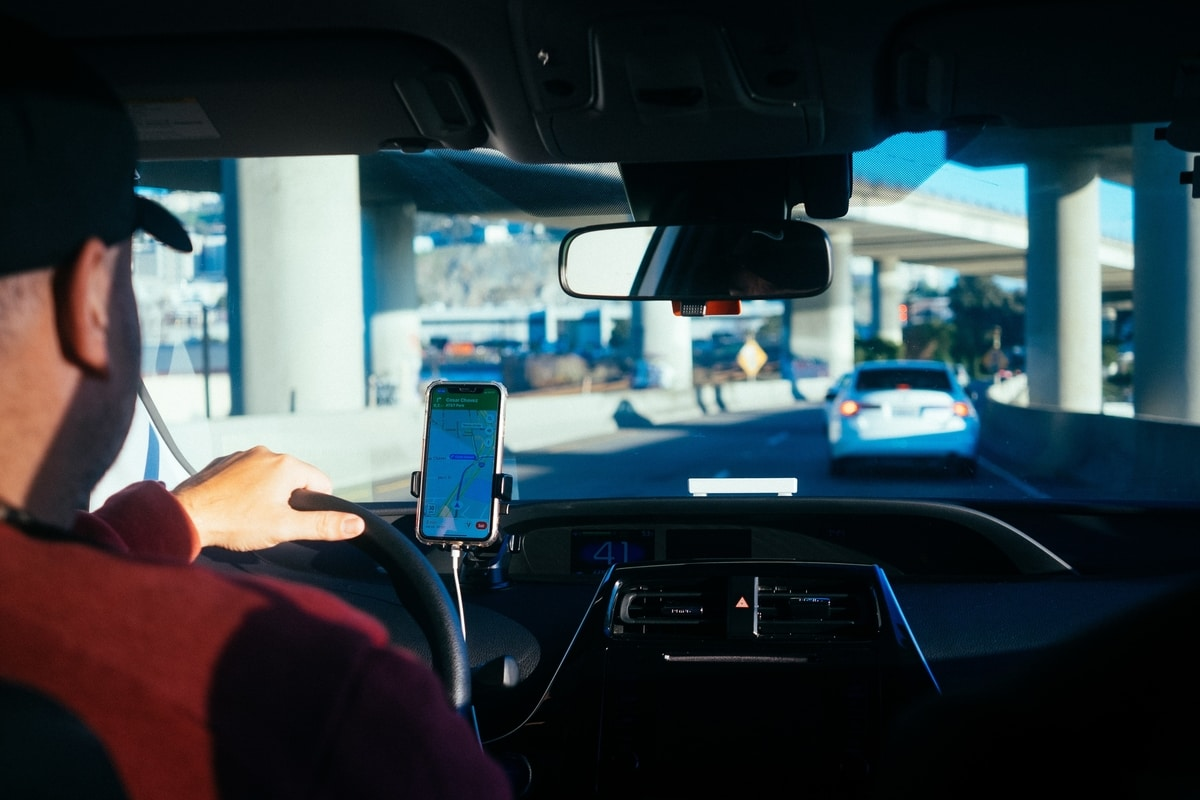
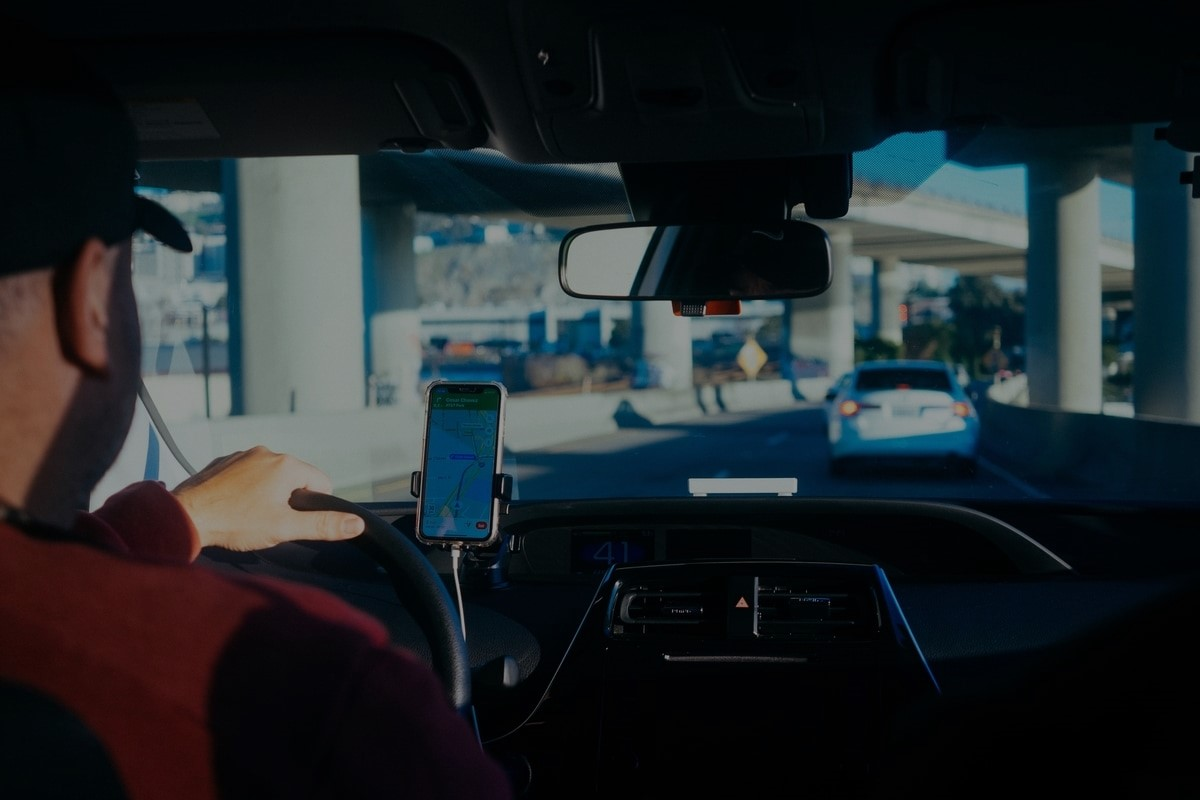
overlay, cosmetic changes

diff --git a/src/components/Offer/OfferStyles.js b/src/components/Offer/OfferStyles.js
@@ -9,28 +9,17 @@ export const ImageDiv = styled.div`
     no-repeat center center fixed;
   background-size: cover;
   max-width: 100vw;
-  height: 40vh;
+  margin-top: 1rem;
   position: relative;
   left: 50%;
   right: 50%;
   margin-left: -50vw;
   margin-right: -50vw;
-  display: flex;
-  justify-content: center;
-  align-items: center;
-  text-align: center;
   @media ${Theme.Breakpoints.laptop} {
     background: url(${`${process.env.PUBLIC_URL}/assets/images/overlay-img-desktop.jpg`})
-      no-repeat center fixed;
+      no-repeat center center fixed;
     background-size: cover;
   }
-`;
-
-export const OverlayDiv = styled.div`
-  width: 100%;
-  height: 100%;
-  background-color: black;
-  opacity: 0.5;
 `;
 
 export const GridContainer = styled(Container)`
@@ -81,6 +70,7 @@ export const IconWrapper = styled.div`
 
 export const OverlayTextDiv = styled.div`
   color: white;
-  z-index: 2;
-  position: absolute;
+  font-size: 1.1rem;
+  text-align: center;
+  padding: 1rem;
 `;

diff --git a/src/components/PriceList/PriceList.js b/src/components/PriceList/PriceList.js
@@ -96,10 +96,10 @@ i okulistą"
 const PriceTileDesktop = styled(WhiteBoardDiv)`
   flex-direction: column;
   padding: 1rem 2rem;
-  justify-content: flex-start;
-  align-items: center;
+  text-align: center;
   > :first-child {
     border-bottom: 2px solid ${Theme.Colors.greenOpacity};
+    height: 200px;
   }
 `;
 const Grid = styled.div`
@@ -123,11 +123,10 @@ const PriceTileMobile = (props) => {
 };
 
 const PriceTileDiv = styled(WhiteBoardDiv)`
-  height: 110px;
   padding: 5px 10px;
-  z-index: 2;
   border-left: 5px solid ${Theme.Colors.green};
-  position: relative;
+  display: flex;
+  align-items: center;
   > :first-child {
     width: 30%;
   }

diff --git a/src/components/Topbar/Navbar/Navbar.js b/src/components/Topbar/Navbar/Navbar.js
@@ -12,6 +12,18 @@ const Navbar = () => {
             duration={500}
             exact="true"
             offset={-80}
+            to="home"
+          >
+            STRONA GŁÓWNA
+          </Link>
+        </li>
+        <li>
+          <Link
+            spy={true}
+            smooth="true"
+            duration={500}
+            exact="true"
+            offset={-80}
             to="about"
           >
             O NAS

diff --git a/src/components/Home/HomeStyles.js b/src/components/Home/HomeStyles.js
@@ -21,8 +21,8 @@ export const HomeOverlayDiv = styled.div`
   @media ${Theme.Breakpoints.tablet} {
     max-width: 65%;
     float: right;
-    padding: 10px 20px;
-    margin-top: 80px;
+    padding: 1rem 2rem;
+    margin-top: 3rem;
   }
 `;
 export const Article = styled.article`

diff --git a/src/components/Offer/Overlay.js b/src/components/Offer/Overlay.js
@@ -12,7 +12,6 @@ function Overlay() {
         <H3Styled>badania kontrolne</H3Styled>
         <H3Styled>badania sanitarno-epidemiologiczne</H3Styled>
       </OverlayTextDiv>
-      <OverlayDiv> </OverlayDiv>
     </ImageDiv>
   );
 }

diff --git a/src/components/Topbar/TopbarStyles.js b/src/components/Topbar/TopbarStyles.js
@@ -60,7 +60,7 @@ export const Logo = styled.h2`
 
 export const Nav = styled.nav`
   display: none;
-  width: 50%;
+  width: 60%;
   align-self: center;
 
   @media ${Theme.Breakpoints.laptop} {
